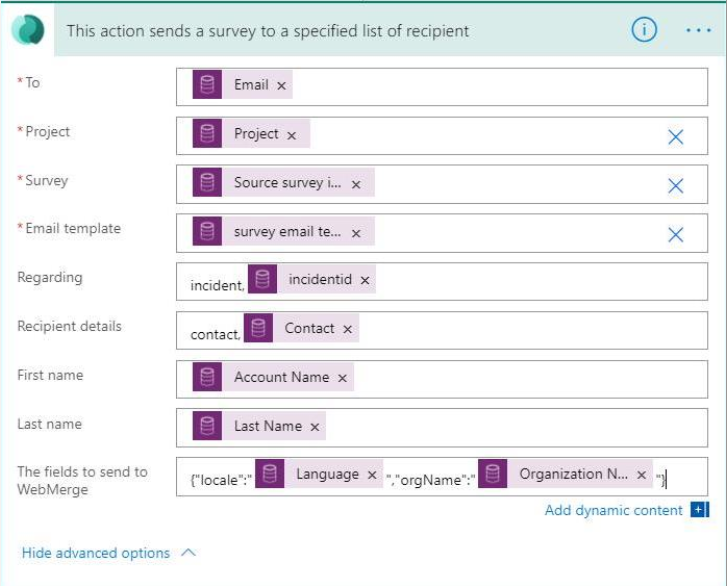
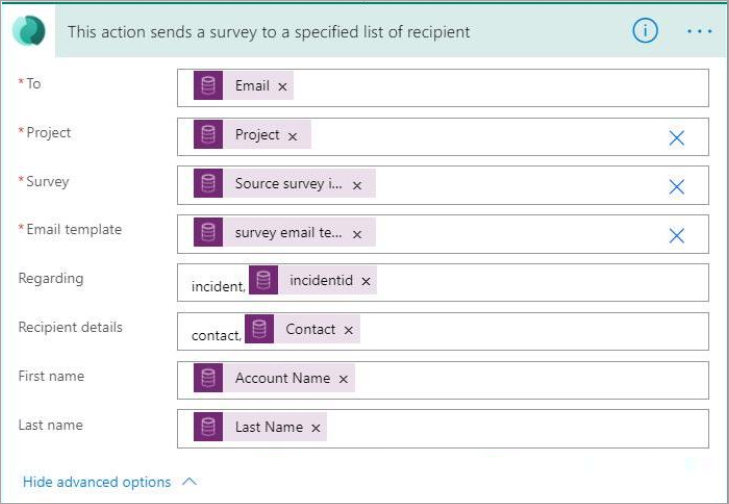
update

diff --git a/cv-docs/send-survey-flow.md b/cv-docs/send-survey-flow.md
@@ -1,7 +1,7 @@
 ---
 title: "Send a survey by using Power Automate | MicrosoftDocs"
 description: "You can send a survey to respondents based on a business trigger such as resolution of a case. This topic explains how to send a survey by using Power Automate."
-ms.date: 01/06/2023
+ms.date: 11/25/2024
 ms.topic: article
 author: sbmjais
 ms.author: shjais
@@ -66,7 +66,6 @@ Use the **Recipient details** field to associate your survey invitation and resp
 |Email template|The email template to use while sending the invitation.<br>**Note**: You must select an email template from the list and not enter a custom value.|
 |Regarding|The record that associates the survey invitation and response. This value is stored in the survey invitation's **Regarding** field. <br> **Note:** <ul><li>You must enter a table's logical name in this field. For example, if you want to associate the Case table, you must enter _incident_, as it is the logical name of the Case table. Similarly, if you create a custom table with its display name as _Custom Table_ and its logical name as _new\_customtable_, you must enter _new\_customtable_ in this field.</li><li>Only tables that are marked for collaboration in activities are supported. For example, the Task table is not supported. </li>|
 |Recipient details|The contact to associate your survey invitation and response records with. This value is stored in the survey invitation's **To** field.<br>**Note**: Only the Contact record is supported.|
-|The fields to send to WebMerge | To use dynamic properties for a survey, use this field to specify survey variables in JSON format. For example, `"{"locale":"<LOCALE>","orgName":"<NAME>"}"`, where ```<LOCALE>``` and ```<NAME>``` are the variable value. |
 
 > [!NOTE]
 > If you've used variables in your survey, they will be visible in this action and you can specify the values accordingly. More information: [Specify values in a flow](personalize-survey.md#specify-values-in-a-flow)

diff --git a/cv-docs/purchase.md b/cv-docs/purchase.md
@@ -1,7 +1,7 @@
 ---
 title: "Purchase Dynamics 365 Customer Voice and additional license | MicrosoftDocs"
 description: "This topic explains how to purchase Dynamics 365 Customer Voice licenses and additional survey responses."
-ms.date: 11/18/2024
+ms.date: 11/25/2024
 ms.topic: article
 author: sbmjais
 ms.author: shjais
